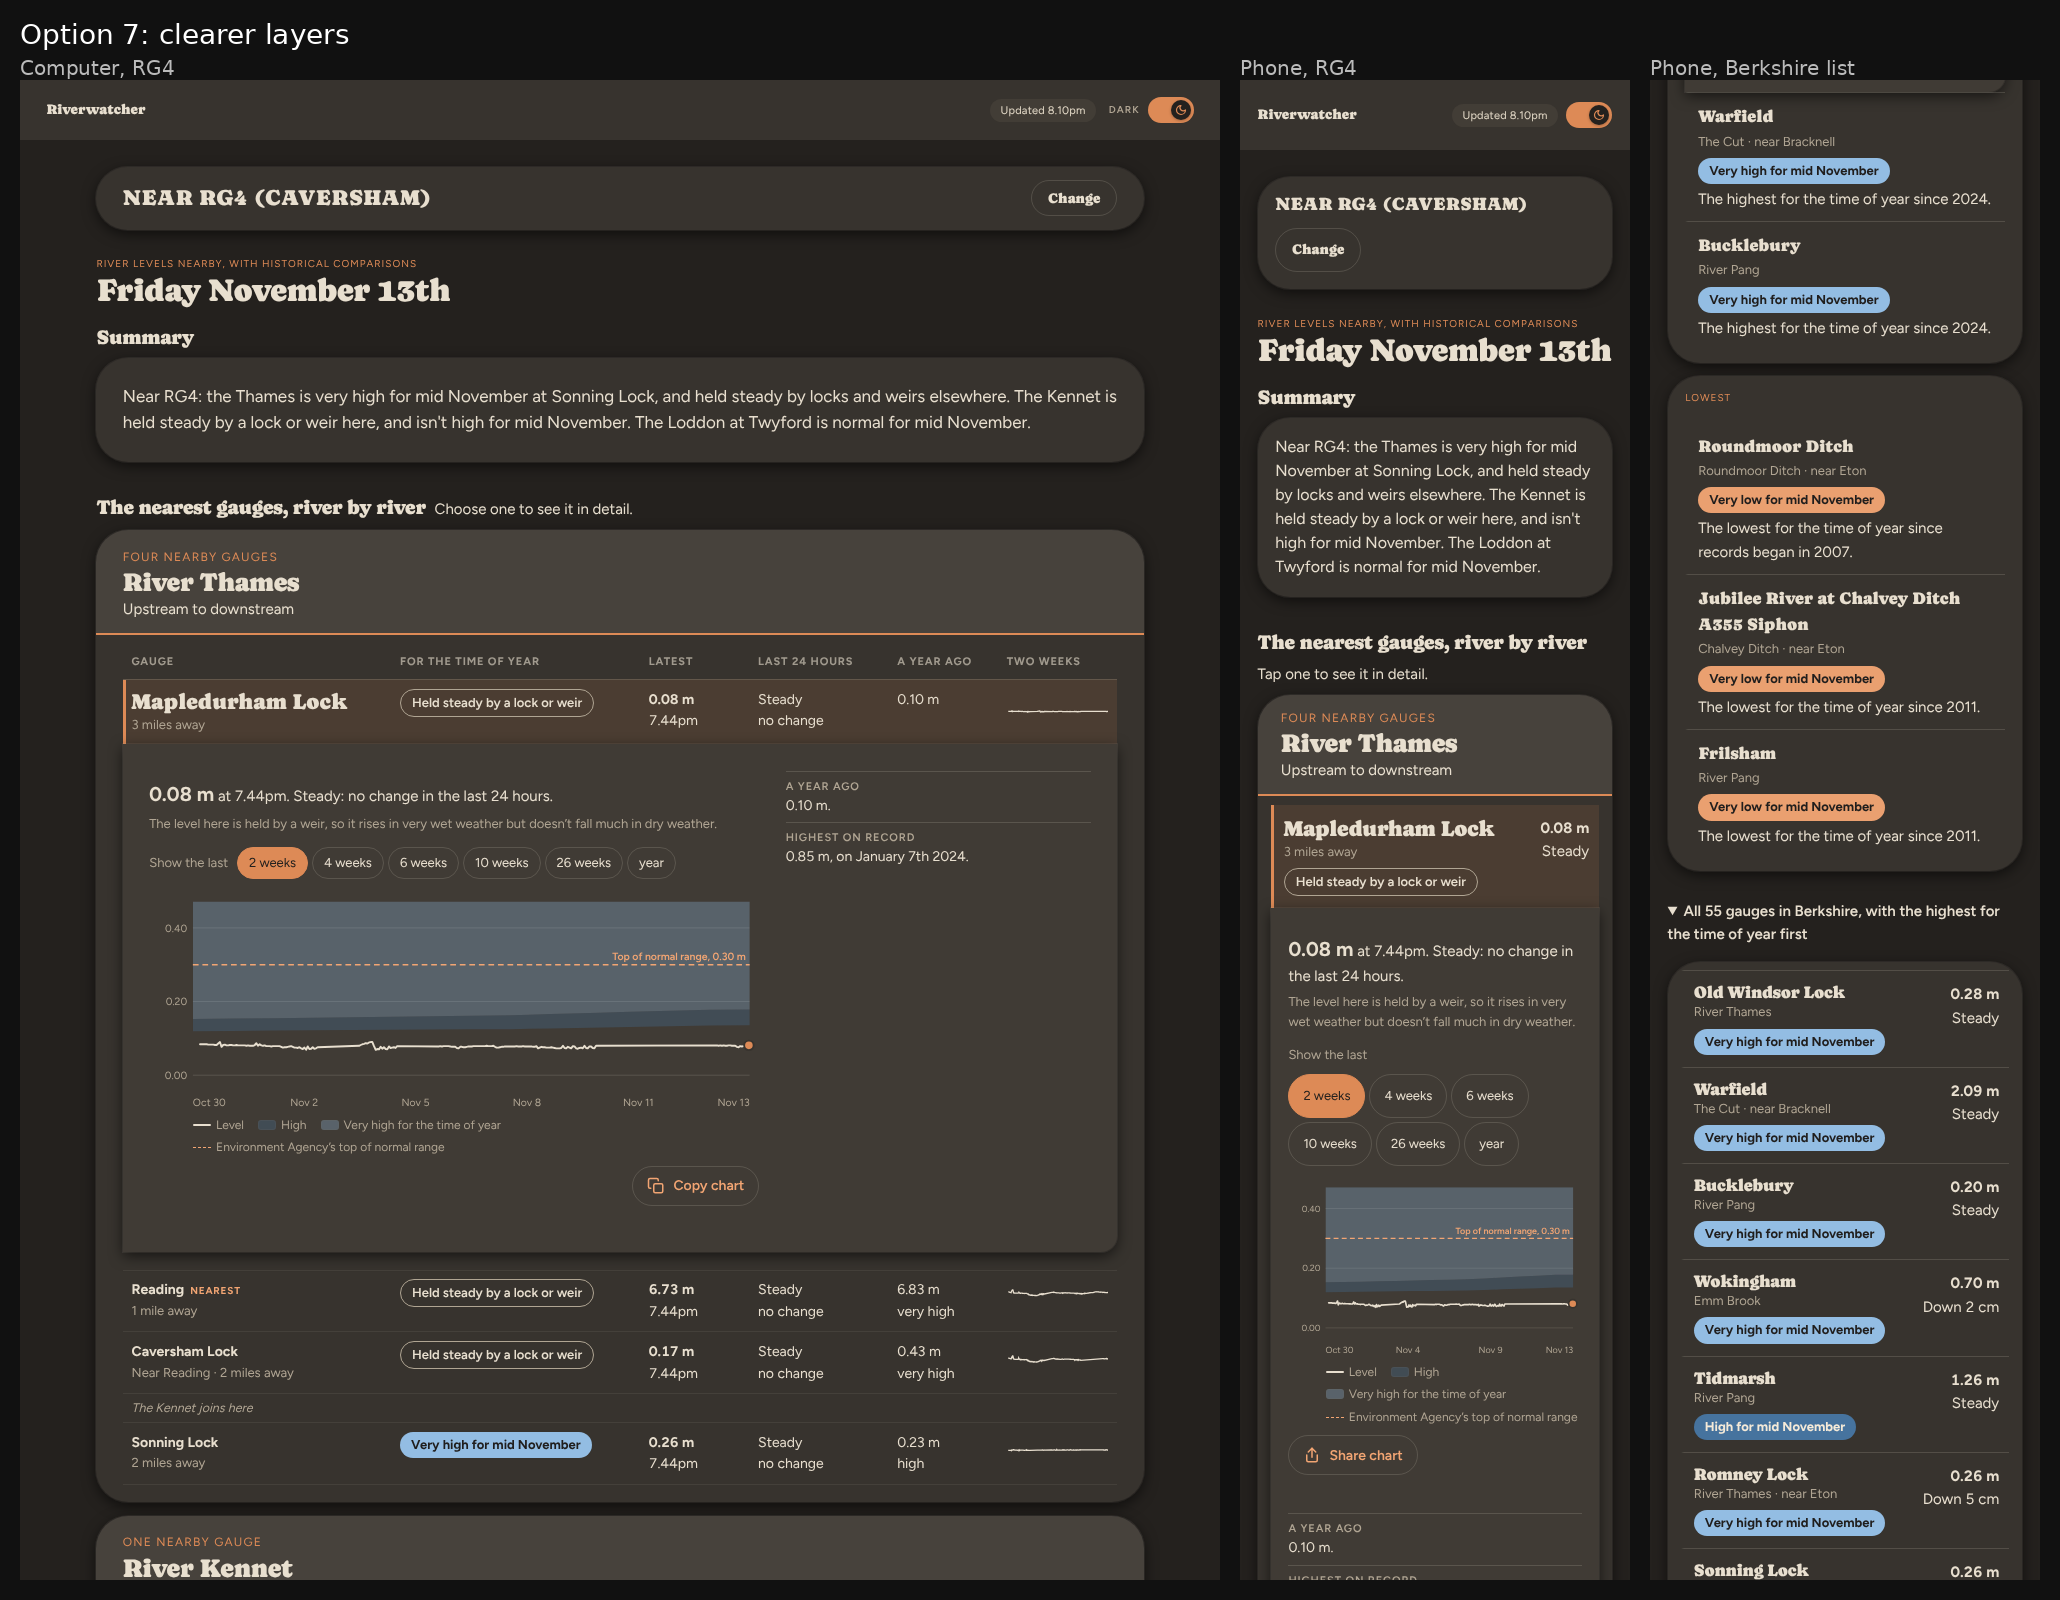
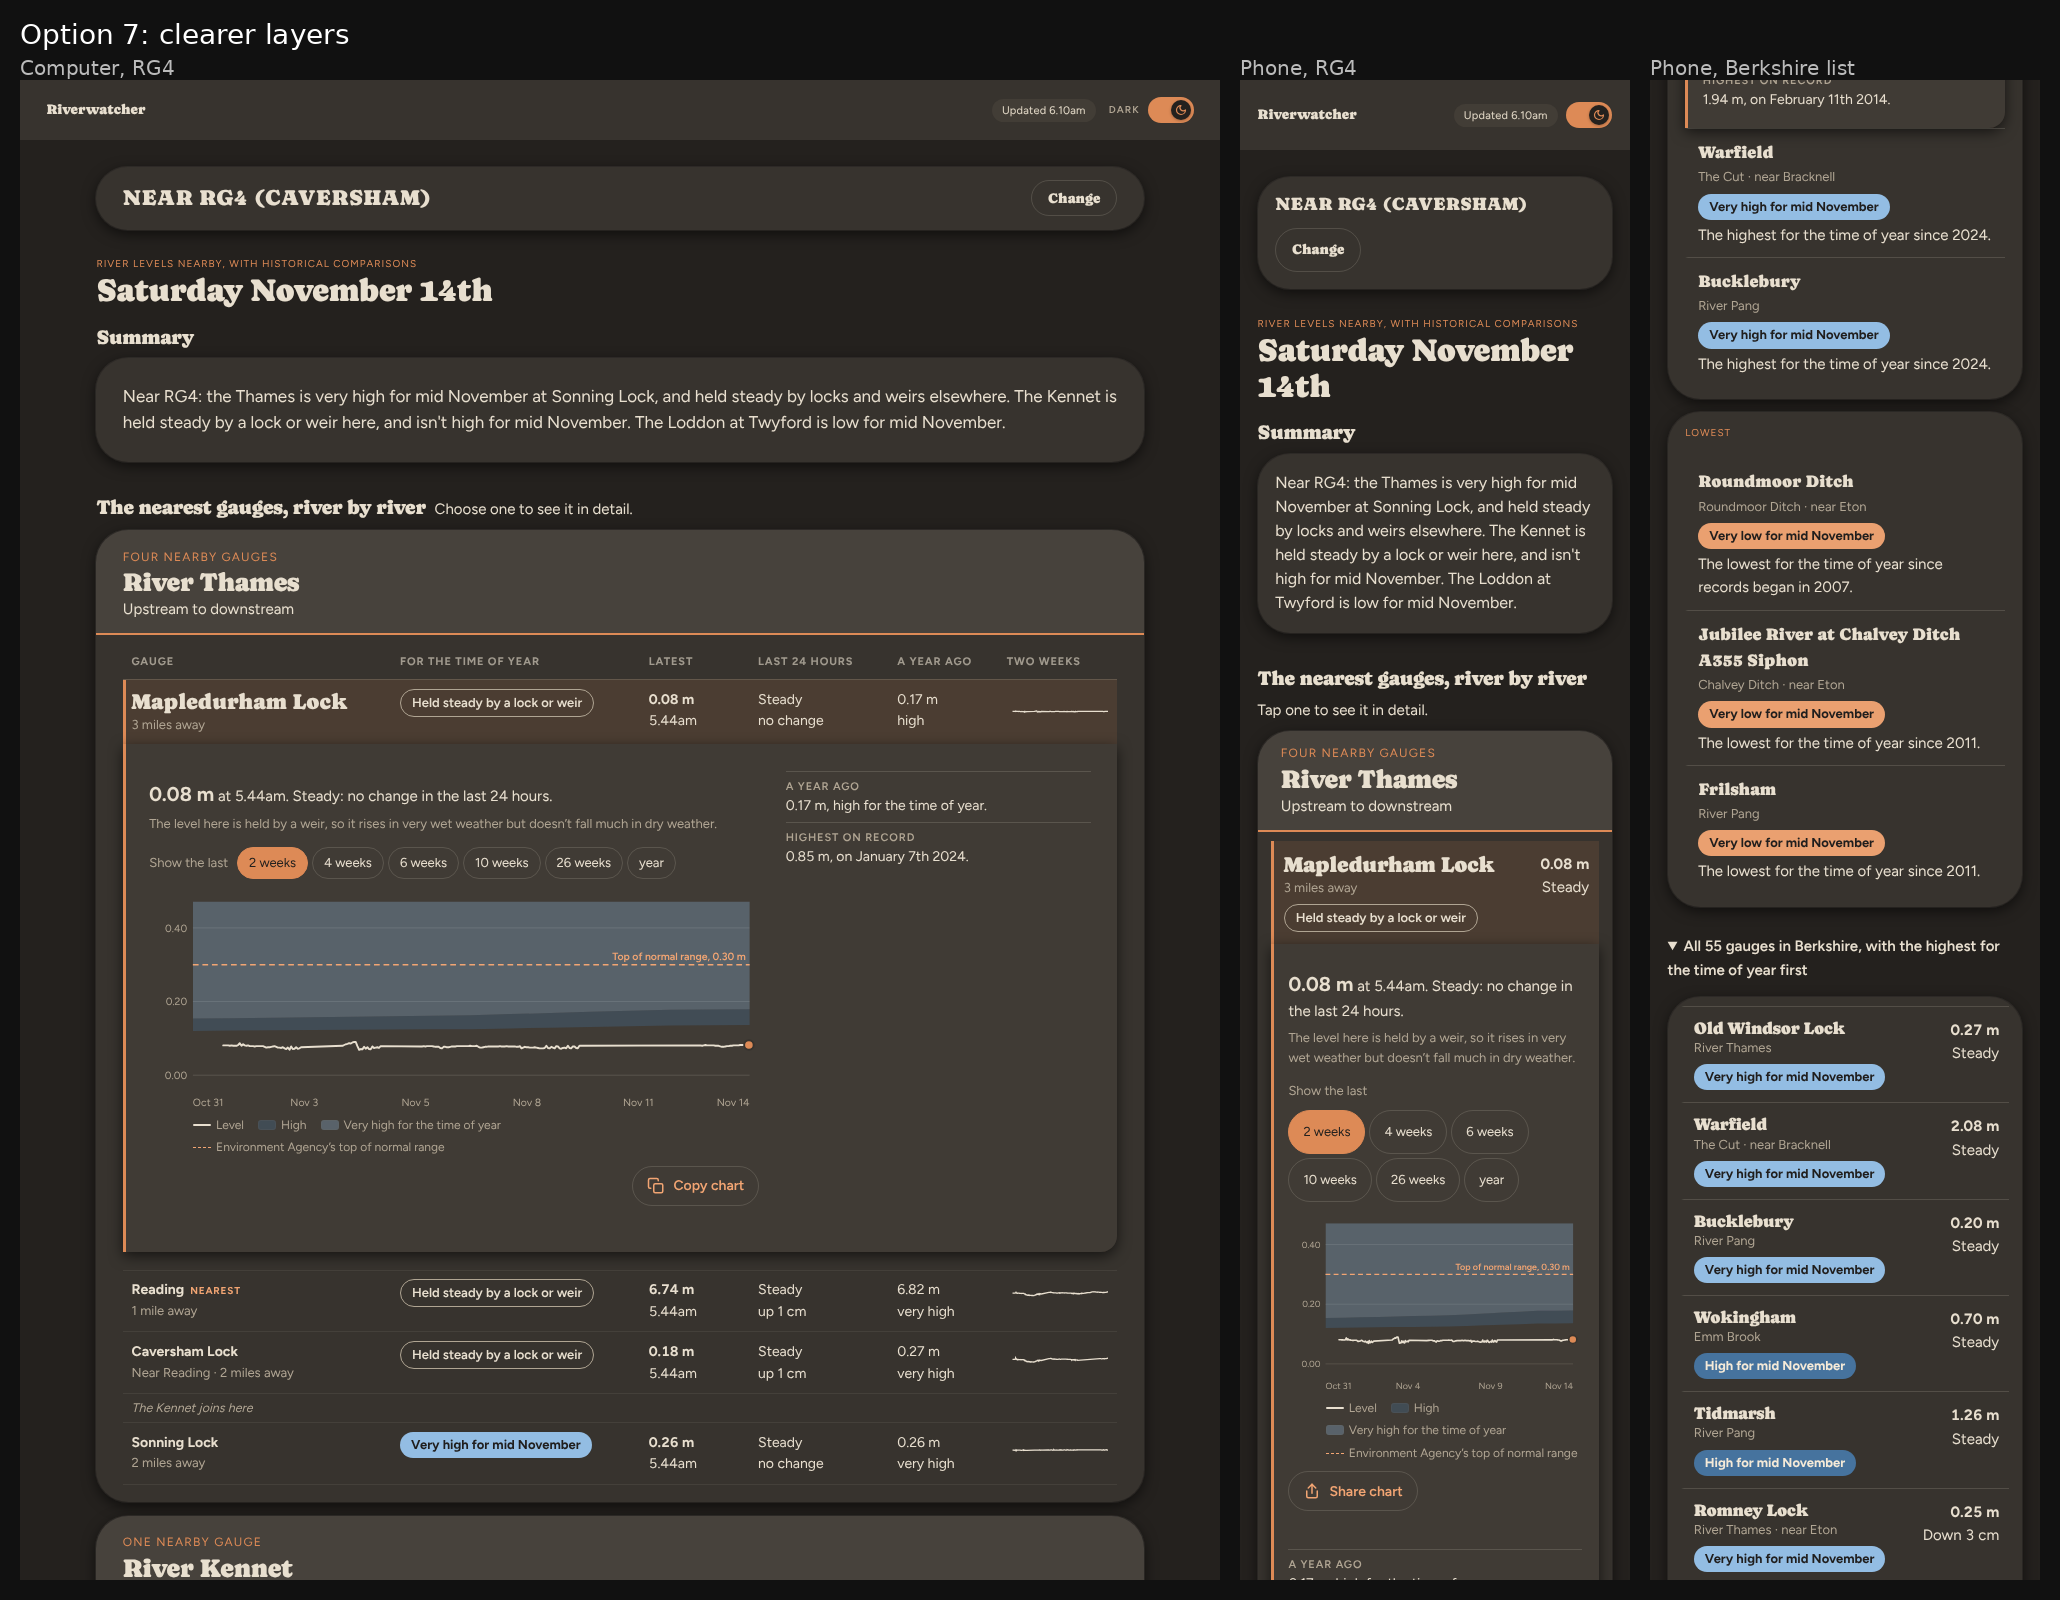
Dark mode review: options 5 and 7 together
Claude-Session: https://claude.ai/code/session_01BsvHLGYP68wmvwcAmHW8tH

diff --git a/design/previews/dark-review-2026-11-13/opt57.css b/design/previews/dark-review-2026-11-13/opt57.css
@@ -1,0 +1,19 @@
+/* Option 7: clearer layers - page a step darker, open panels a step lighter than cards */
+:root[data-theme="dark"] { --color-bg: #24211e; --alert-bg: #5a3419; }
+:root[data-theme="dark"] .b-detail-inline, :root[data-theme="dark"] .b-detail { background: #403b35; }
+:root[data-theme="dark"] .b-detail .card-kicker { color: var(--color-accent-700); }
+:root[data-theme="dark"] .river-head { background: color-mix(in srgb, var(--color-text) 9%, transparent); }
+:root[data-theme="dark"] .card { box-shadow: 0 0 0 1px color-mix(in srgb, #e8dfcf 8%, transparent), 0 4px 14px #0009; }
+/* keep the chosen gauge's orange edge down the side of its open details */
+:root[data-theme="dark"] .b-detail-inline { box-shadow: inset 3px 0 0 var(--color-accent), 0 4px 14px #0009; }
+/* Option 5: each gauge edged in its high-or-low colour (thicker for "very"); river bands in dark water blue */
+:root[data-theme="dark"] { --e-vlow: #eaa070; --e-low: #c4773f; --e-high: #6a98c6; --e-vhigh: #93bde3; }
+:root[data-theme="dark"] .river-head { background: #22333f; }
+:root[data-theme="dark"] .r-table tbody tr:not([aria-selected="true"]):has(.jchip.very-low) td:first-child { box-shadow: inset 7px 0 0 var(--e-vlow); }
+:root[data-theme="dark"] .r-table tbody tr:not([aria-selected="true"]):has(.jchip.low) td:first-child { box-shadow: inset 4px 0 0 var(--e-low); }
+:root[data-theme="dark"] .r-table tbody tr:not([aria-selected="true"]):has(.jchip.high) td:first-child { box-shadow: inset 4px 0 0 var(--e-high); }
+:root[data-theme="dark"] .r-table tbody tr:not([aria-selected="true"]):has(.jchip.very-high) td:first-child { box-shadow: inset 7px 0 0 var(--e-vhigh); }
+:root[data-theme="dark"] :is(.b-row, .end-item):not([aria-pressed="true"]):has(.jchip.very-low) { border-left-color: transparent; box-shadow: inset 7px 0 0 var(--e-vlow); }
+:root[data-theme="dark"] :is(.b-row, .end-item):not([aria-pressed="true"]):has(.jchip.low) { border-left-color: transparent; box-shadow: inset 4px 0 0 var(--e-low); }
+:root[data-theme="dark"] :is(.b-row, .end-item):not([aria-pressed="true"]):has(.jchip.high) { border-left-color: transparent; box-shadow: inset 4px 0 0 var(--e-high); }
+:root[data-theme="dark"] :is(.b-row, .end-item):not([aria-pressed="true"]):has(.jchip.very-high) { border-left-color: transparent; box-shadow: inset 7px 0 0 var(--e-vhigh); }

diff --git a/design/previews/dark-review-2026-11-13/opt7.css b/design/previews/dark-review-2026-11-13/opt7.css
@@ -4,3 +4,5 @@
 :root[data-theme="dark"] .b-detail .card-kicker { color: var(--color-accent-700); }
 :root[data-theme="dark"] .river-head { background: color-mix(in srgb, var(--color-text) 9%, transparent); }
 :root[data-theme="dark"] .card { box-shadow: 0 0 0 1px color-mix(in srgb, #e8dfcf 8%, transparent), 0 4px 14px #0009; }
+/* keep the chosen gauge's orange edge down the side of its open details */
+:root[data-theme="dark"] .b-detail-inline { box-shadow: inset 3px 0 0 var(--color-accent), 0 4px 14px #0009; }

diff --git a/CLAUDE.md b/CLAUDE.md
@@ -94,6 +94,13 @@ Scope (decided by John):
 
 ## Log
 
+### 2026-11-14 — dark mode review: options 5 and 7 together (design only, straight to `main`)
+
+John asked to see 5 and 7 together: `opt57.css` (7 then 5) and `opt57.png`, made as before from this morning's
+6.10am figures, with `now-2026-11-14.png` beside it for the same figures. Fixed in 7: its card shadow had replaced the orange edge down the
+side of an opened gauge's details; that edge is now kept (`opt7.png` remade). No errors, no sideways scroll.
+Waiting for John's choice.
+
 ### 2026-11-13 — dark mode colour review: mock-ups 1, 2, 5 and 7 (design only, straight to `main`)
 
 John asked to review Riverwatcher's dark colours (house style §2, "Reviewing dark mode colours"). Mock-ups made by
